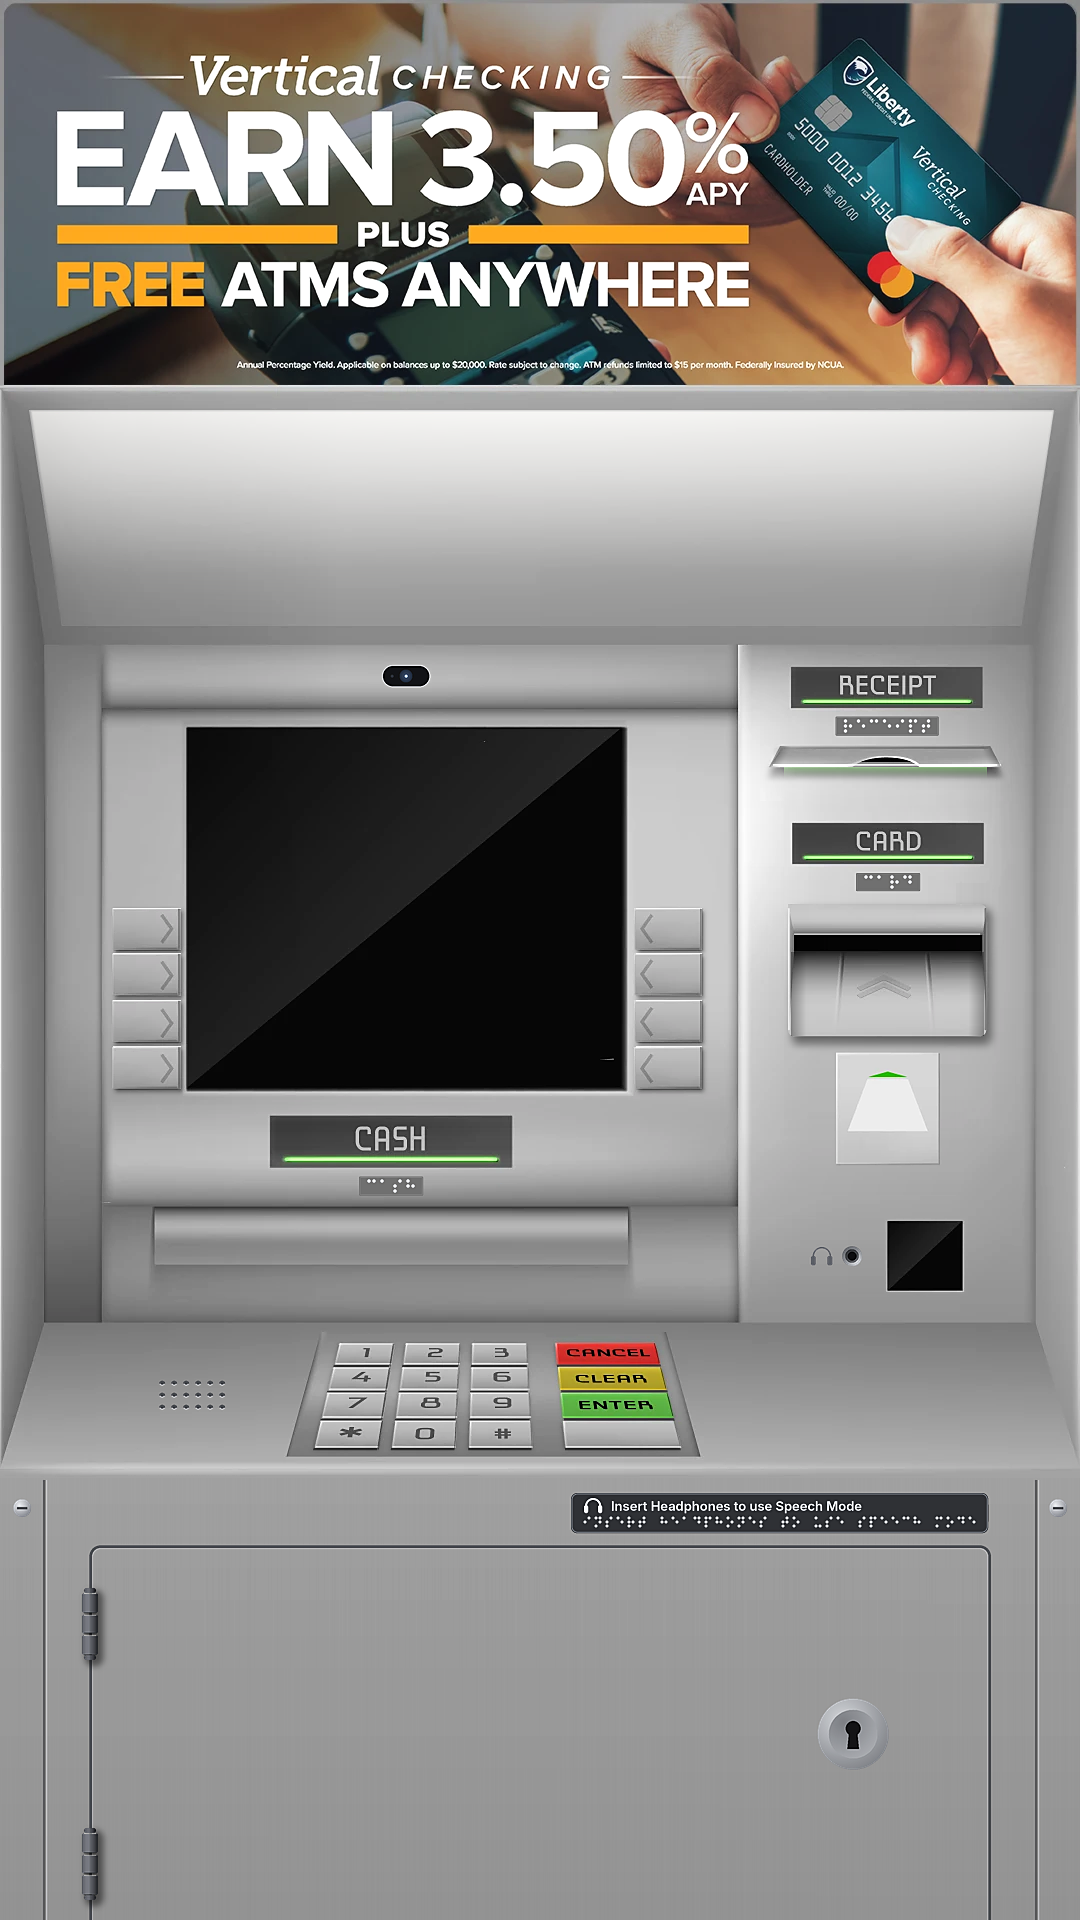
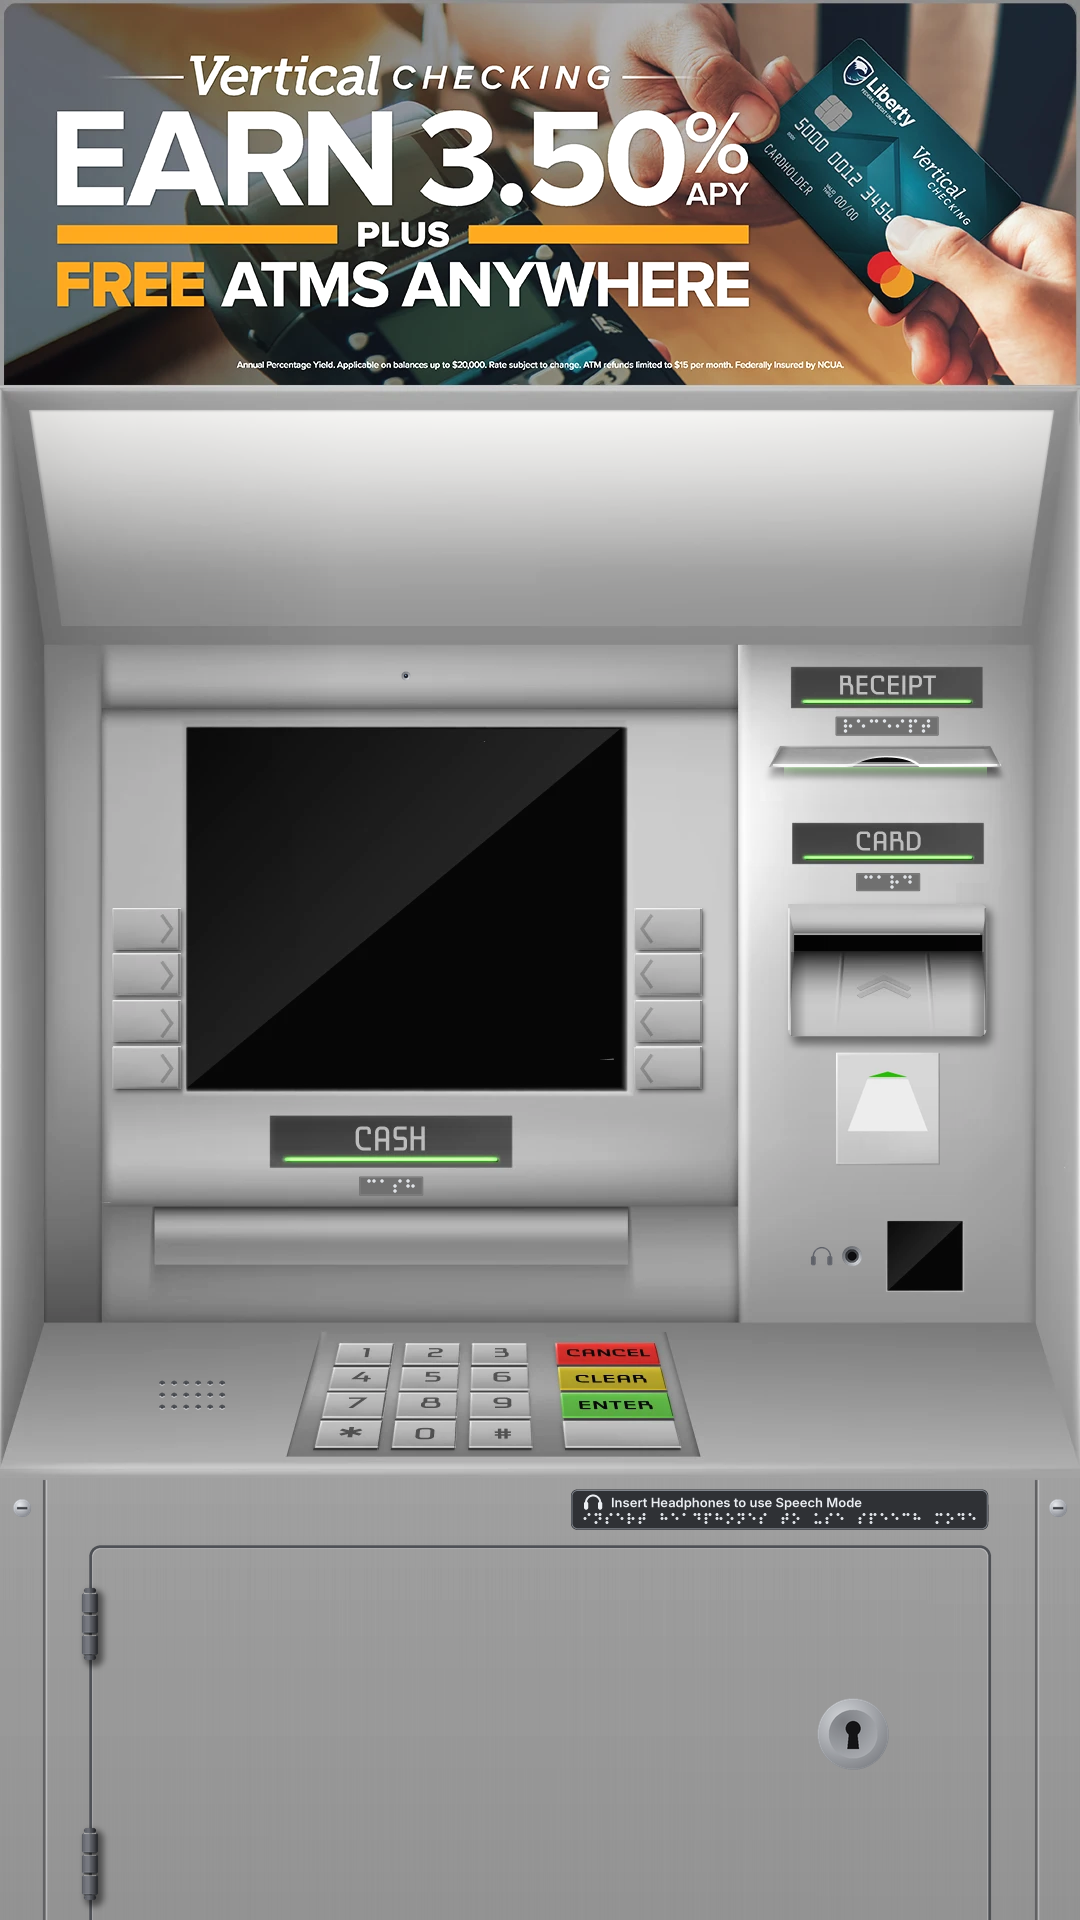
ATM artwork: pinhole camera, no sharpening, Speech Mode label centred
- The camera is a real pinhole: a tiny hole in a small recessed ring,
  instead of a black pill with a visible lens.
- The sharpening step is removed (the other finishing stays).
- The Speech Mode label sits centred between the keypad shelf's edge
  and the door seam (14.5 px each side).
- Checked: the RECEIPT, CARD and CASH braille plates are one colour.

Claude-Session: https://claude.ai/code/session_01KPvVpTs9ZCdeZuPLiaJADF

diff --git a/ATM/artwork/options.py b/ATM/artwork/options.py
@@ -303,7 +303,7 @@ SENT = "insert headphones to use speech mode"
 sm = dict(r=1.35, pitch=4.0, cell=11.0, flat=True)
 bw, bh = braille_size(SENT, sm["pitch"], sm["cell"])
 PW2, PH2 = bw + 28, 40
-P0, PT = 988 - PW2, (1478 + 1548) / 2 - PH2 / 2  # centred in the strip between the keypad shelf and the door
+P0, PT = 988 - PW2, (1474.5 + 1544.5) / 2 - PH2 / 2  # centred between the keypad shelf's bottom edge and the door seam (measured)
 plate(a, P0 + PW2 / 2, PT + PH2 / 2, PW2, PH2)
 txt = Image.new("L", (W * Z, H * Z), 0); td = ImageDraw.Draw(txt)
 TY = PT + 13  # text line
@@ -315,12 +315,12 @@ td.text(((P0 + 40) * Z, TY * Z), "Insert Headphones to use Speech Mode", font=fl
 tm = np.array(txt.resize((W, H), Image.BOX)) / 255
 a[..., :3] = a[..., :3] * (1 - tm[..., None]) + np.array((225, 228, 232), float) * tm[..., None]
 draw_braille(a, SENT, P0 + 14 + bw / 2, PT + 29, **sm)
-# ---------- finishing: a touch more brightness, contrast, highlights, shadows and colour, then sharpen ----------
-BANNER_BOTTOM = 385  # the banner is rows 0-384: only tone changes there, never sharpening or colour
-GRADE = dict(brightness=0.03, contrast=0.10, highlights=0.06, shadows=0.05, vibrance=0.15, sharpen=(1.2, 70, 2))
+# ---------- finishing: a touch more brightness, contrast, highlights, shadows and colour (no sharpening: disliked) ----------
+BANNER_BOTTOM = 385  # the banner is rows 0-384: only tone changes there, never sharpening, outlines or colour
+GRADE = dict(brightness=0.03, contrast=0.10, highlights=0.06, shadows=0.05, vibrance=0.15)
 
 
-def finish(a, brightness, contrast, highlights, shadows, vibrance, sharpen):
+def finish(a, brightness, contrast, highlights, shadows, vibrance):
     x = a[..., :3] / 255
     x = x + brightness
     x = x + contrast * (x - 0.5) * (1 - np.abs(2 * x - 1))  # S-curve: more contrast in the mid-tones
@@ -331,10 +331,7 @@ def finish(a, brightness, contrast, highlights, shadows, vibrance, sharpen):
     m = x.mean(-1, keepdims=True); sat = x.max(-1, keepdims=True) - x.min(-1, keepdims=True)
     x = m + (x - m) * (1 + vibrance * (1 - np.clip(sat * 2, 0, 1)))  # vibrance: muted colours gain the most
     a[..., :3] = np.clip(x, 0, 1) * 255
-    radius, percent, threshold = sharpen
-    rgb = Image.fromarray(a[..., :3].astype(np.uint8)).filter(ImageFilter.UnsharpMask(radius, percent, threshold))
-    a[..., :3] = np.array(rgb).astype(float)
-    a[:BANNER_BOTTOM, :, :3] = banner[:BANNER_BOTTOM]  # no vibrance or sharpening (it outlined the text) on the banner
+    a[:BANNER_BOTTOM, :, :3] = banner[:BANNER_BOTTOM]  # no vibrance on the banner
 
 
 finish(a, **GRADE)

diff --git a/ATM/artwork/edit_atm.py b/ATM/artwork/edit_atm.py
@@ -253,11 +253,10 @@ comp(L)
 # ---------- pinhole camera above the screen ----------
 CAMX, CAMY = 406, 676
 L = layer(); d = ImageDraw.Draw(L)
-d.rounded_rectangle(s(CAMX - 24, CAMY - 11, CAMX + 24, CAMY + 11), radius=11 * S, fill=(14, 15, 18, 255))
-d.rounded_rectangle(s(CAMX - 24, CAMY - 11, CAMX + 24, CAMY + 11), radius=11 * S, outline=(205, 207, 212, 200), width=S)
-paste_disc(L, CAMX, CAMY, 6.5, (60, 80, 110), (6, 8, 14), cx=0.5, cy=0.5)  # lens
-d.ellipse(s(CAMX - 1.2, CAMY - 1.2, CAMX + 1.2, CAMY + 1.2), fill=(190, 225, 255, 230))  # catchlight
-d.ellipse(s(CAMX - 15.5, CAMY - 1.5, CAMX - 12.5, CAMY + 1.5), fill=(40, 44, 52, 255))  # mic hole
+# a pinhole camera: a tiny hole in a small recessed ring, flush with the bezel (lit like the jack: a socket, not a bump)
+paste_disc(L, CAMX, CAMY, 4.5, (196, 198, 202), (92, 94, 98), cx=0.68, cy=0.72)  # recessed ring
+paste_disc(L, CAMX, CAMY, 2.2, (40, 46, 58), (4, 5, 8), cx=0.5, cy=0.5)  # the pinhole
+d.ellipse(s(CAMX - 0.9, CAMY - 1.2, CAMX - 0.1, CAMY - 0.4), fill=(150, 175, 210, 200))  # the lens glints inside it
 comp(L)
 # ---------- audio jack + label on the flat front strip under the shelf ----------
 L = layer(); d = ImageDraw.Draw(L)

diff --git a/ATM/NOTES.md b/ATM/NOTES.md
@@ -356,7 +356,7 @@ label, so these were updated to match (measured on the image):
 |---|---|
 | Door position, seam, hinges | `edit_atm.py`: `DX0, DY0, DX1, DY1` (door top at y 1548; runs past the bottom edge; the door has no face of its own, it is the body), the seam gap and bevel lines after it, the hinge loop (`HW`, `HH`, `CAP`, colours `lo`/`hi`) |
 | Keyhole size / brightness / position | `edit_atm.py`: `K` (1.62), the two `paste_disc` colours (satin, close to the body), `KX, KY` (centred in the visible door, right of `IX1`) |
-| Camera | `edit_atm.py`: `CAMX, CAMY` and the lines after it |
+| Camera (a pinhole) | `edit_atm.py`: `CAMX, CAMY` and the three lines after it (ring 9 px across, hole about 4 px) |
 | Bolts beside the cabinet (under the keypad shelf) | `edit_atm.py`: the loop after "bolts at the cabinet corners" (radius 9, 18 px across) |
 | Headphone icon, jack, black square row | `edit_atm.py`: `PANEL_C, GAP, ICON_GAP, JACK_D, SQ_W`, `IS` (icon scale); the jack's recessed look: the three lines after "the jack is a socket sunk into the panel" |
 | Keypad depth | `edit_atm.py`: `VP`, `ROW_TOP`, `ROW_BOT`, `KEY_X`, `KEY_TB` (right column), the strengths after `KP` |
@@ -366,8 +366,8 @@ label, so these were updated to match (measured on the image):
 | Receipt / card slot styling | `options.py`: `sculpt` (`chrome`, `card_chrome`) and `lit_throats` (`card=False` keeps the green glow off the card slot) |
 | Green on the slots | `options.py`: `SLOT_GREEN` (the **Slot Light** colour, `#7cf25e`) |
 | Braille words, size, plates | `options.py`: `DOTS` (letters), `SPOTS_FINAL` (where), `flat`/`sm` (dot size and spacing), `plate(...)` colours |
-| Speech Mode label | `options.py`: `SENT`, `PW2, PH2, P0, PT` |
-| Brightness, contrast, highlights, shadows, colour, sharpness | `options.py`: `GRADE` (the last step). The banner gets only the first four; never sharpen or recolour it (`BANNER_BOTTOM`) |
+| Speech Mode label | `options.py`: `SENT`, `PW2, PH2, P0, PT` (`PT` centres it between the shelf's bottom edge, y 1474.5, and the door seam, y 1544.5) |
+| Brightness, contrast, highlights, shadows, colour | `options.py`: `GRADE` (the last step; no sharpening). The banner gets only the first four; never sharpen, outline or recolour it (`BANNER_BOTTOM`) |
 | Spacing of the right panel and cash | `options.py`: `RECEIPT_DROP` (16), `CARD_LABEL_RISE` (12), `CARD_DROP` (16, the whole card group, centred between its neighbours), `INSERT_DROP` (8, the card slot alone), `PIC_SCALE` (0.78) and the picture's `py0` (follows the slot), `CASH_LABEL_RISE` (10) |
 
 ### Decisions log (the image)
@@ -502,12 +502,22 @@ In the order they were made with the designer:
   centred on the panel; the icon and square each moved 3 px inward.
 - **Bolts**: the two screw heads either side of the cabinet, just under
   the keypad shelf, were made a little bigger (18 px across, was 14).
-- **Finishing (more vibrant, sharper)**: a last step over the whole
-  image: +3% brightness, a gentle S-curve for contrast, brighter
-  highlights and deeper shadows, a vibrance boost that lifts muted
-  colours most, then an unsharp mask (radius 1.2, 70%, threshold 2).
-  `GRADE` in `options.py`; set every value to 0 (and `sharpen` to
-  `(1, 0, 0)`) to see the image without it.
+- **Finishing (more vibrant)**: a last step over the whole image: +3%
+  brightness, a gentle S-curve for contrast, brighter highlights and
+  deeper shadows, and a vibrance boost that lifts muted colours most.
+  `GRADE` in `options.py`; set every value to 0 to see the image
+  without it. A sharpening step (unsharp mask) was added too, then
+  **removed**: the designer doesn't like the sharpening.
+- **Camera is a pinhole**: the black pill with a visible lens, catchlight
+  and mic hole was replaced by a real pinhole camera: a tiny dark hole
+  (about 4 px) in a small recessed ring (9 px), flush with the bezel
+  above the screen, lit like a socket so it reads as set in.
+- **Speech Mode label centred**: it was centred on the wrong edges (18
+  px above, 11 below). It now sits centred between the keypad shelf's
+  bottom edge (y 1474.5) and the door seam (y 1544.5): 14.5 px each side.
+- **Braille plate colours checked**: RECEIPT, CARD and CASH plates are
+  the same colour (`(112, 112, 112)` in the finished image). The only
+  differences were the sharpening's halos at their edges, gone with it.
 - **The banner is not edited (designer's rule)**: the banner (rows
   0-384, the Vertical Checking ad) gets **only brightness, contrast,
   highlights and shadows**. No outlines, sharpening, colour or anything
